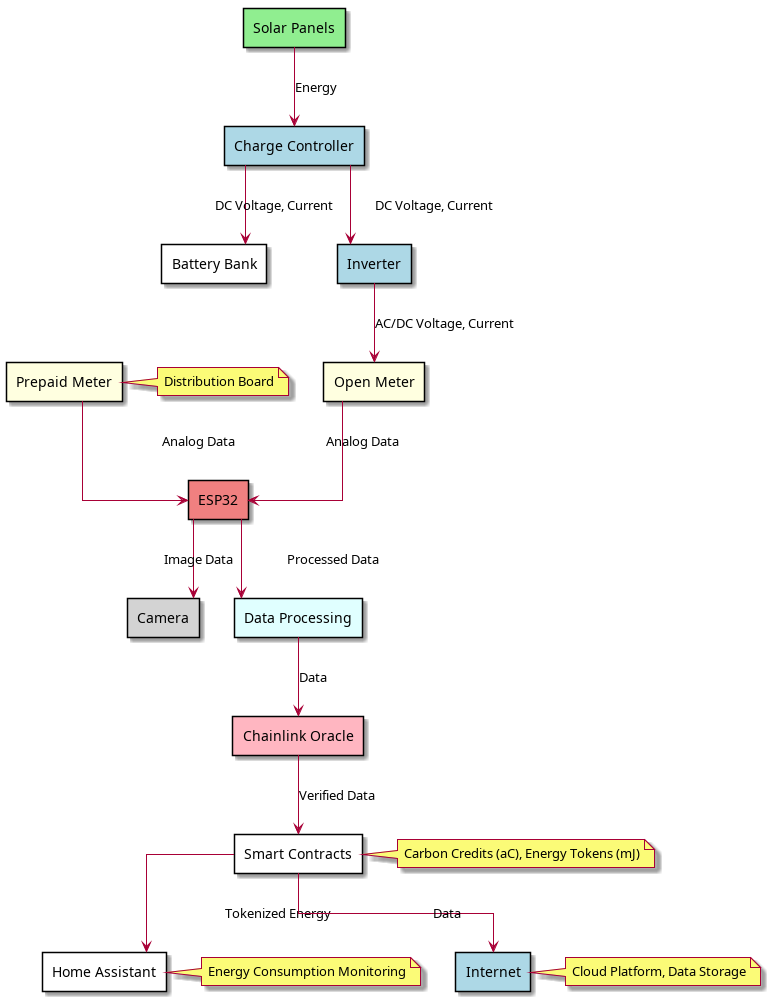
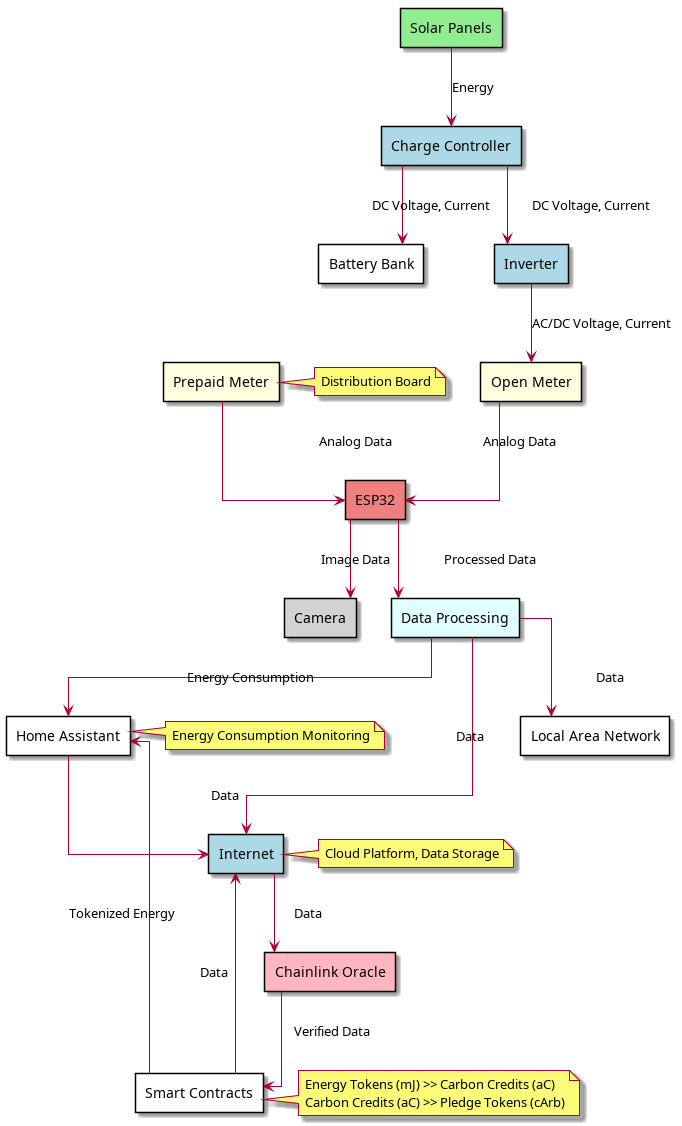
uml

diff --git a/open-meter/README.md b/open-meter/README.md
@@ -26,6 +26,7 @@ rectangle "Open Meter" as OpenMeter #lightyellow
 rectangle "Prepaid Meter" as PrepaidMeter #lightyellow
 rectangle "ESP32" as ESP32 #lightcoral
 rectangle "Camera" as Camera #lightgray
+rectangle "Local Area Network" as LAN #lightpurple
 rectangle "Data Processing" as DataProcessing #lightcyan
 rectangle "Chainlink Oracle" as ChainlinkOracle #lightpink
 rectangle "Smart Contracts" as SmartContracts #lightorange
@@ -40,17 +41,22 @@ OpenMeter --> ESP32 : Analog Data
 PrepaidMeter --> ESP32 : Analog Data
 ESP32 --> Camera : Image Data
 ESP32 --> DataProcessing : Processed Data
-DataProcessing --> ChainlinkOracle : Data
+DataProcessing --> Internet: Data
+DataProcessing --> LAN : Data
+Internet --> ChainlinkOracle : Data
 ChainlinkOracle --> SmartContracts : Verified Data
 SmartContracts --> HomeAssistant : Tokenized Energy
 SmartContracts --> Internet : Data
+DataProcessing --> HomeAssistant : Energy Consumption
+HomeAssistant --> Internet : Data
 
 note right of PrepaidMeter
   Distribution Board
 end note
 
 note right of SmartContracts
-  Carbon Credits (aC), Energy Tokens (mJ)
+   Energy Tokens (mJ) >> Carbon Credits (aC)
+   Carbon Credits (aC) >> Pledge Tokens (cArb)
 end note
 
 note right of HomeAssistant
